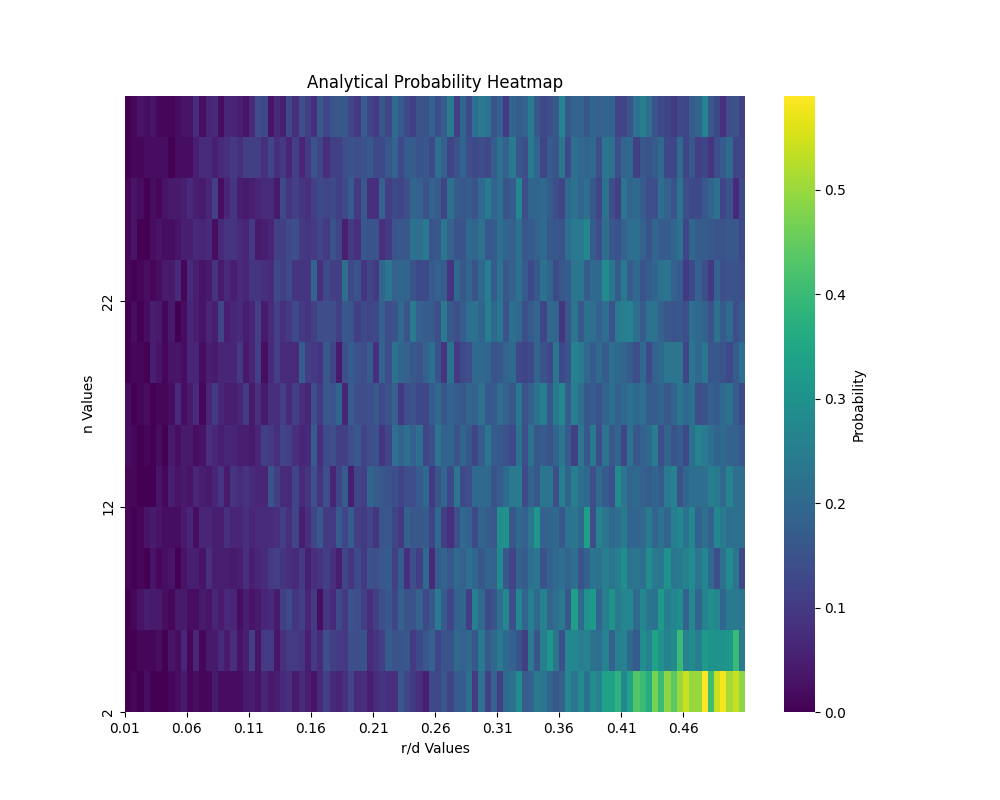
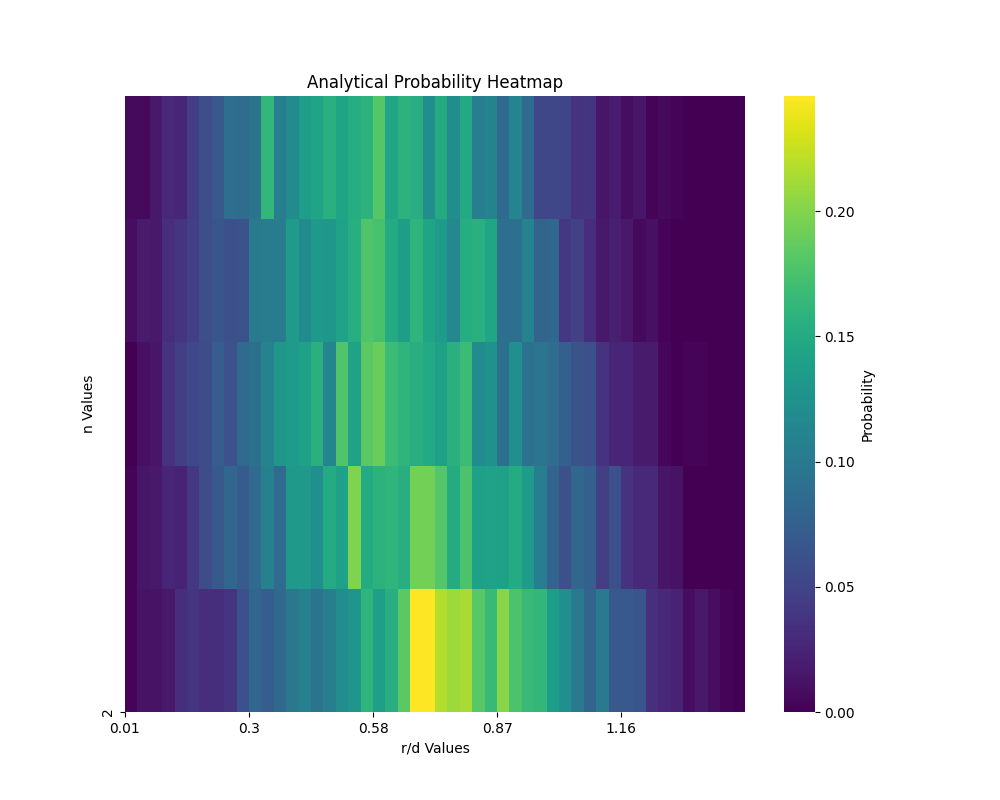
Start analytical sol deletion

diff --git a/deletion_test.py b/deletion_test.py
@@ -9,16 +9,22 @@ def numeric_test(r,d_1,n, tests = 1e5):
 
     t = 0
     success = 0
-    trials = 0
-    proportion = 2
+    proportion = 1
+    min_size = proportion*r/2
+
+
+
+    min_size = proportion*r/2
+    max_trials = 0
     while t < tests:
-        trials += 1
-        v = np.random.normal(0, 1, size = n)
+        v = abs(np.random.normal(0, 1, size = n))
         v *= r/np.linalg.norm(v)
 
-        if (d_2 := np.linalg.norm(initial_point+v)) < d_1 and d_2 > proportion*r/2:
+        if (d_2 := np.linalg.norm(initial_point+v)) < d_1 and d_2 > min_size:
             s = True
+            trials = 0
             while s:
+                trials += 1
                 u = np.random.normal(0,1,size = n)
                 u *= r/np.linalg.norm(u) * proportion
                 if (d_3 := np.linalg.norm(initial_point+v+u)) < d_2:
@@ -26,7 +32,12 @@ def numeric_test(r,d_1,n, tests = 1e5):
                     s = False
                     if np.linalg.norm(initial_point+u) <= d_3:
                         success += 1
-
+                    if trials > max_trials:
+                        max_trials = trials
+                if trials > 1000000:
+                    s = False
+                    print("Trials abandoned")
+    # print(f"n: {n}, r: {r}, max trials: {max_trials}, succ_prob = {success/tests}")
     return success / tests
 
 
@@ -36,14 +47,15 @@ def plot_numerical(n = 10):
     rs = np.linspace(0.01,0.9, l)
 
     test_data = np.zeros(l)
-    # analytical_data = np.zeros(l)
+    analytical_data = np.zeros(l)
     for i,r in enumerate(rs):
         test_data[i] = numeric_test(r,d_1,n, tests = 10000)
+        analytical_data[i] = analytical_sol(n,r)
         print(f"r = {r} done")
 
     fig = plt.figure(figsize = (10,8))
     ax = plt.subplot()
-    # ax.plot(rs,analytical_data, c = "k", label = "Analytic solution")
+    ax.plot(rs,analytical_data, c = "k", label = "Analytic solution")
     ax.plot(rs,test_data, c = "r", label = "Numerical data")
     ax.set_xlabel("Size of genes (r/d)")
     ax.set_ylabel("Proportion of beneficial deletions")
@@ -52,9 +64,52 @@ def plot_numerical(n = 10):
     ax.legend()
     return fig
 
+def ben(r,d):
+    return np.arccos(r/(2*d))
+
+def del_prob(th,r,n):
+    l = 100
+    ths = np.linspace(0,th,l)
+    y1 = np.sin(ths)**(n-2)
+
+    nom = np.trapezoid(y1,ths, axis = 0)
+
+    d = np.sqrt(r*r+1-2*r*np.cos(th))
+    phmax = ben(r,d)
+    phis = np.linspace(0,phmax)
+
+    int2 = np.sin(phis)**(n-2)
+    den = np.trapezoid(int2,phis, axis = 0)
+    prob = nom/den
+    return prob
+
+def analytical_sol(n = 5, r = 0.1):
+    thmax = np.arccos(r/2)
+    thdup = np.arccos(3*r/2)
+
+    l = 1000
+    ths = np.linspace(0,thmax,l)
+    split = np.searchsorted(ths, thdup)
+
+    #inside beneficial duplication range:
+
+    th1 = ths[:split]
+    ys = del_prob(th1,r,n)
+    prob = np.trapezoid(ys,th1)
+
+
+
+
+    #outside beneficial duplication range:
+    # th2 = ths[split:]
+    # d2 = np.sqrt(r*r+1+2*r*np.cos(th2))
+    # possible_ph_2 = 2*ben(r,d2)
+    # y_denom = np.sin(ths)**(n-2)
+    return prob
+
 def plot_probability_heatmap():
-    r_values = np.linspace(0.01, 0.7, 100)
-    n_values = np.arange(2, 32,2)
+    r_values = np.linspace(0.01, np.sqrt(2), 50)
+    n_values = np.arange(2, 12,2)
 
     heatmap_data = np.zeros((len(n_values), len(r_values)))
 
@@ -79,7 +134,11 @@ def plot_probability_heatmap():
 
 
 if __name__ == "__main__":
-    # plot_numerical(n = 2)
+    plot_numerical(n = 3)
     # print(numeric_test(0.1,1,2))
-    plot_probability_heatmap()
+    # plot_probability_heatmap()
+    # analytical_sol(2)
+
+    # print(del_prob(np.pi/3,0.01,2))
+
     plt.show()
